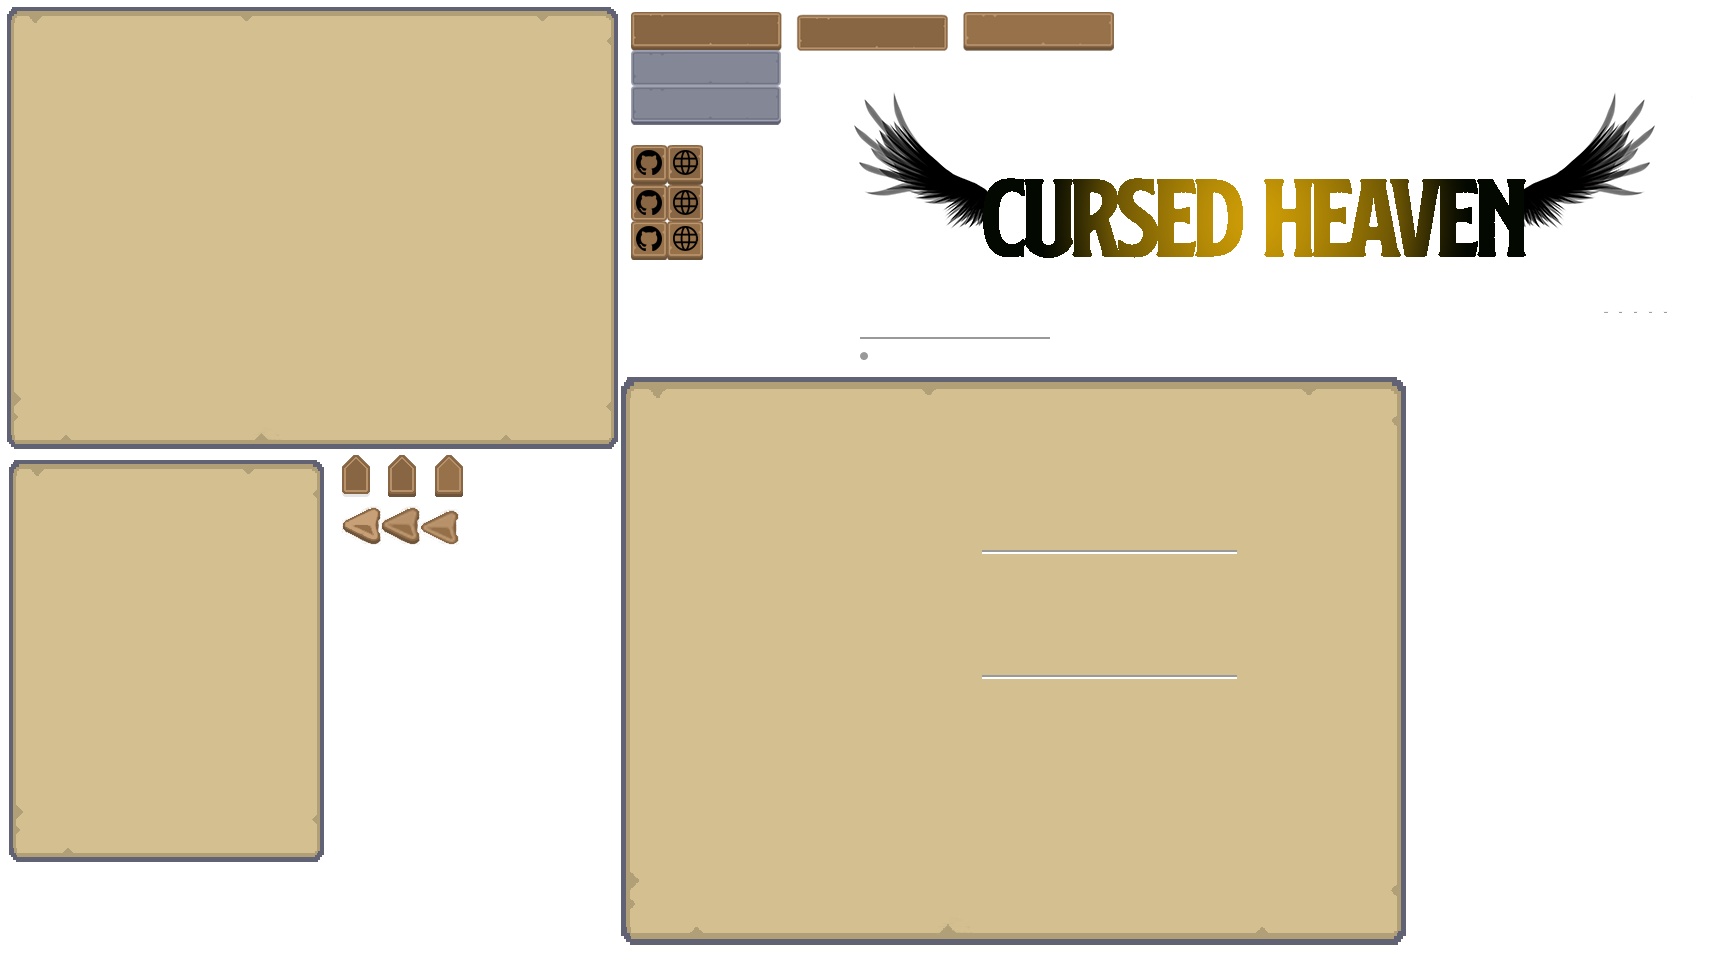
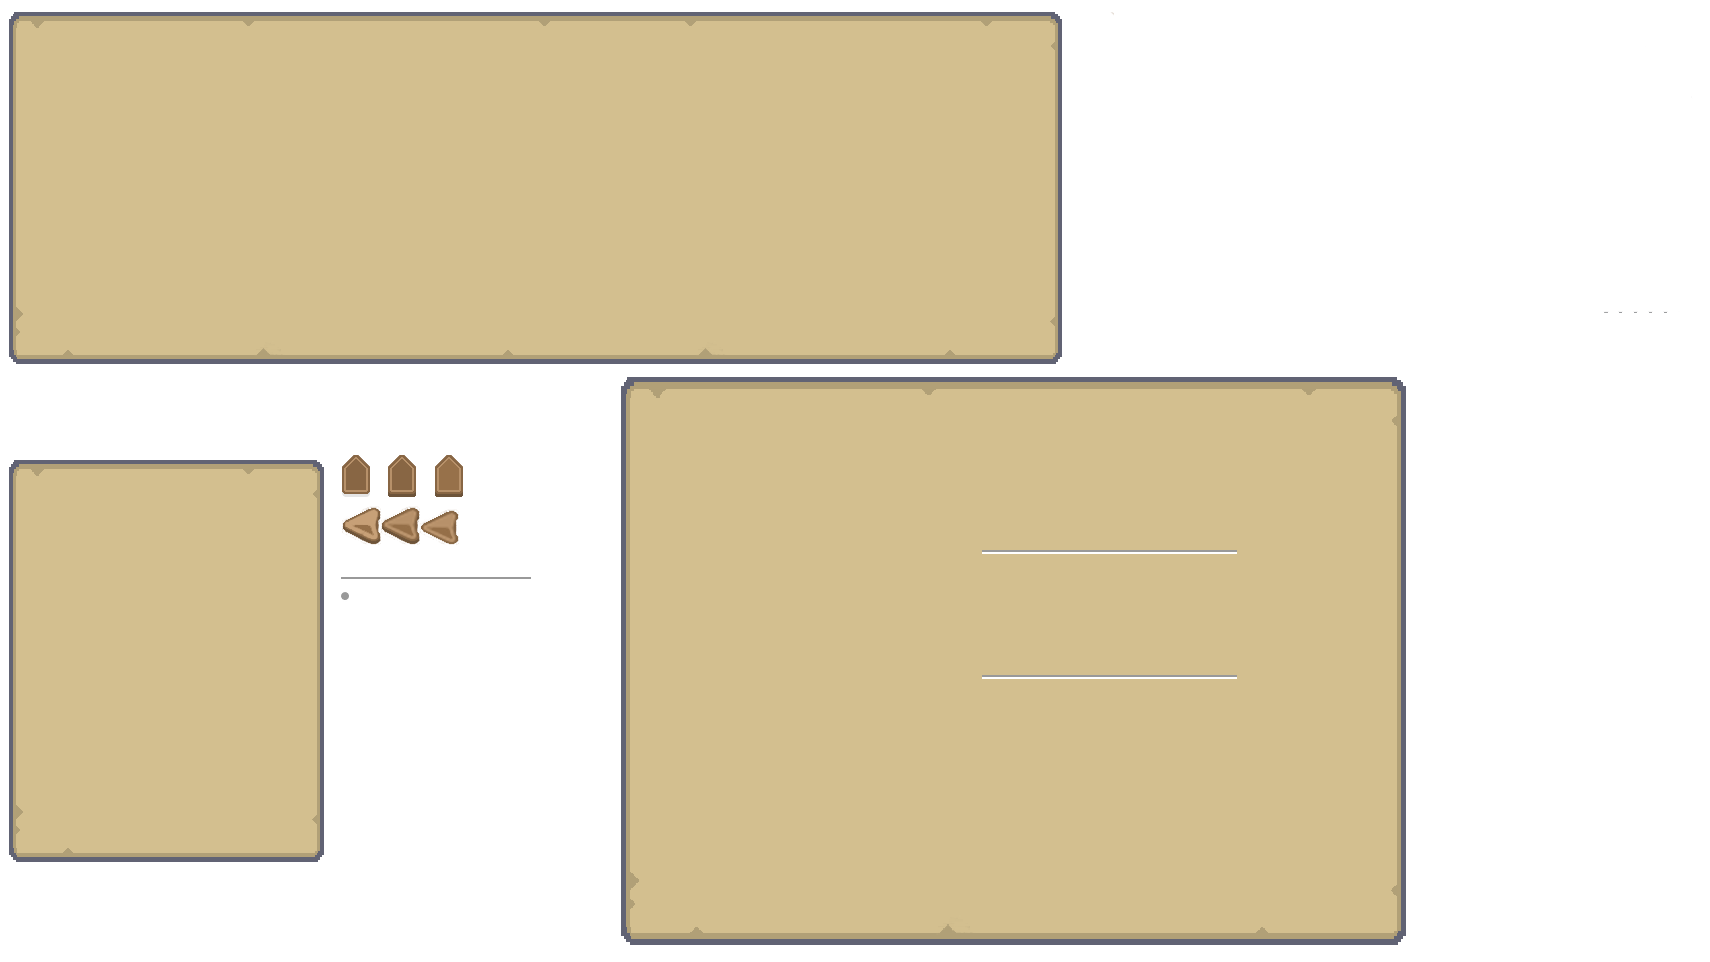
finished choose character

Changed region(s): [[0.0, 0.0, 0.9608, 0.4678]]

diff --git a/CursedHeaven/Motor2D/j1ChooseCharacter.cpp b/CursedHeaven/Motor2D/j1ChooseCharacter.cpp
@@ -55,38 +55,39 @@ bool j1ChooseCharacter::Awake(pugi::xml_node& config) {
 bool j1ChooseCharacter::Start() {
 
 	if (active) {
-
 		// The map is loaded
 		App->map->Load("menu.tmx");
 
 		// Loading textures
 		button_tex = App->tex->Load("gui/CHARACTERS_LOCKED.png");
 		gui_tex2 = App->tex->Load("gui/uipack_rpg_sheet.png");
+		info_tex = App->tex->Load("gui/uipack_rpg_sheet_2.png");
 
 		// Loading fonts
-		font = App->font->Load("fonts/Pixeled.ttf", 10);
+		font = App->font->Load("fonts/Pixeled.ttf", 5);
+		font2 = App->font->Load("fonts/Pixeled.ttf", 10);
 
 		SDL_Rect invisible = { 0,0, SCREEN_WIDTH, SCREEN_HEIGHT };
 		App->gui->CreateButton(&chooseCharacterButtons, BUTTON, 2, 40, invisible, invisible, invisible, NULL, NONE_BUT);
+		
+		SDL_Rect name_box = { 9, 12, 1053, 352 };
+		info_window = App->gui->CreateBox(&chooseCharacterBoxes, BOX, 22, 150, name_box, info_tex);
 
-		SDL_Rect name_box = { 1422, 379, 315, 123 };
-		App->gui->CreateBox(&chooseCharacterBoxes, BOX, 60, 55, name_box, gui_tex2);
+		SDL_Rect BG_idle = { 0,0,163,310 };
+		SDL_Rect BG_hover = { 327,0,164,310 };
+		App->gui->CreateButton(&chooseCharacterButtons, BUTTON, 2 + 12, 40 - 20, BG_idle, BG_hover, BG_hover, button_tex, BLACKMAGE_BUT);
 
-		SDL_Rect BG_idle = { 0,0,163,346 };
-		SDL_Rect BG_hover = { 327,0,164,346 };
-		App->gui->CreateButton(&chooseCharacterButtons, BUTTON, 2, 40, BG_idle, BG_hover, BG_hover, button_tex, BLACKMAGE_BUT);
+		SDL_Rect DK_idle = { 0,346,163,310 };
+		SDL_Rect DK_hover = { 327,346,164,310 };
+		App->gui->CreateButton(&chooseCharacterButtons, BUTTON, 87 + 12, 40 - 20, DK_idle, DK_hover, DK_hover, button_tex, DRAGOONKNIGHT_BUT);
 
-		SDL_Rect DK_idle = { 0,346,163,346 };
-		SDL_Rect DK_hover = { 327,346,164,346 };
-		App->gui->CreateButton(&chooseCharacterButtons, BUTTON, 87, 40, DK_idle, DK_hover, DK_hover, button_tex, DRAGOONKNIGHT_BUT);
+		SDL_Rect RG_idle = { 164,0,164,310 };
+		SDL_Rect RG_hover = { 489,0,164,310 };
+		App->gui->CreateButton(&chooseCharacterButtons, BUTTON, 172 + 12, 40 - 20, RG_idle, RG_idle, RG_idle, button_tex, ROGUE_BUT);
 
-		SDL_Rect RG_idle = { 164,0,164,346 };
-		SDL_Rect RG_hover = { 489,0,164,346 };
-		App->gui->CreateButton(&chooseCharacterButtons, BUTTON, 172, 40, RG_idle, RG_idle, RG_idle, button_tex, ROGUE_BUT);
-
-		SDL_Rect TK_idle = { 164,346,163,346 };
-		SDL_Rect TK_hover = { 489,346,163,346 };
-		App->gui->CreateButton(&chooseCharacterButtons, BUTTON, 257, 40, TK_idle, TK_idle, TK_idle, button_tex, TANK_BUT);
+		SDL_Rect TK_idle = { 164,346,163,310 };
+		SDL_Rect TK_hover = { 489,346,163,310 };
+		App->gui->CreateButton(&chooseCharacterButtons, BUTTON, 257 + 12, 40 - 20, TK_idle, TK_idle, TK_idle, button_tex, TANK_BUT);
 
 		App->menu->player_created = false;
 
@@ -107,7 +108,7 @@ bool j1ChooseCharacter::Update(float dt) {
 
 	BROFILER_CATEGORY("ChooseCharacterUpdate", Profiler::Color::LightSeaGreen)
 
-	App->gui->UpdateButtonsState(&chooseCharacterButtons, App->gui->buttonsScale);
+	App->gui->UpdateButtonsState(&chooseCharacterButtons, 0.35f);
 
 	for (std::list<j1Button*>::iterator item = chooseCharacterButtons.begin(); item != chooseCharacterButtons.end(); ++item) {
 		if ((*item)->visible) {
@@ -119,10 +120,22 @@ bool j1ChooseCharacter::Update(float dt) {
 			case HOVERED:
 				if (startup_time.Read() > 2000)
 				(*item)->situation = (*item)->hovered;
-				if ((*item)->bfunction == BLACKMAGE_BUT)
-					App->gui->CreateLabel(&chooseCharacterLabels, LABEL, 156, 220, font, "BlackMage", App->gui->beige);
-				else if ((*item)->bfunction == DRAGOONKNIGHT_BUT)
-					App->gui->CreateLabel(&chooseCharacterLabels, LABEL, 156, 220, font, "dk", App->gui->beige);
+				if ((*item)->bfunction == BLACKMAGE_BUT) {
+					App->gui->CreateLabel(&chooseCharacterLabels, LABEL, 130, 155, font2, "Black Mage", App->gui->brown);
+					App->gui->CreateLabel(&chooseCharacterLabels, LABEL, 80, 195, font, "A fast wizard that uses his powerful ranged", App->gui->beige);
+					App->gui->CreateLabel(&chooseCharacterLabels, LABEL, 96, 210, font, "attacks and deals high area damage", App->gui->beige);
+				}
+				else if ((*item)->bfunction == DRAGOONKNIGHT_BUT) {
+					App->gui->CreateLabel(&chooseCharacterLabels, LABEL, 110, 155, font2, "Dragoon Knight", App->gui->brown);
+					App->gui->CreateLabel(&chooseCharacterLabels, LABEL, 70, 195, font, "An agile warrior that moves fast acroos the map", App->gui->beige);
+					App->gui->CreateLabel(&chooseCharacterLabels, LABEL, 89, 210, font, "and deals great damage with his sword", App->gui->beige);
+				}
+				else if ((*item)->bfunction == ROGUE_BUT) {
+					App->gui->CreateLabel(&chooseCharacterLabels, LABEL, 140, 180, font2, "LOCKED", App->gui->brown);
+				}
+				else if ((*item)->bfunction == TANK_BUT) {
+					App->gui->CreateLabel(&chooseCharacterLabels, LABEL, 140, 180, font2, "LOCKED", App->gui->brown);
+				}
 				else if ((*item)->bfunction == NONE_BUT) {
 					for (std::list<j1Label*>::iterator item = chooseCharacterLabels.begin(); item != chooseCharacterLabels.end(); ++item) {
 						(*item)->CleanUp();
@@ -188,7 +201,14 @@ bool j1ChooseCharacter::Update(float dt) {
 	}
 
 	for (std::list<j1Box*>::iterator item = chooseCharacterBoxes.begin(); item != chooseCharacterBoxes.end(); ++item) {
-		(*item)->Draw(0.7f);
+		(*item)->Draw(App->gui->settingsWindowScale);
+	}
+
+	// Blitting labels of the menu
+	for (std::list<j1Label*>::iterator item = chooseCharacterLabels.begin(); item != chooseCharacterLabels.end(); ++item)
+	{
+		if ((*item)->parent != nullptr) continue;
+		if ((*item)->visible) (*item)->Draw();
 	}
 
 	return true;
@@ -211,6 +231,11 @@ bool j1ChooseCharacter::CleanUp() {
 		chooseCharacterLabels.remove(*item);
 	}
 
+	for (std::list<j1Box*>::iterator item = chooseCharacterBoxes.begin(); item != chooseCharacterBoxes.end(); ++item) {
+		(*item)->CleanUp();
+		chooseCharacterBoxes.remove(*item);
+	}
+
 	return true;
 }
 
@@ -218,6 +243,7 @@ void j1ChooseCharacter::ChangeScene() {
 	
 	this->active = false;
 	startGame = false;
+	backToMenu = false;
 
 	CleanUp();
 
@@ -229,12 +255,6 @@ void j1ChooseCharacter::ChangeScene() {
 	
 	App->entity->active = true;
 	App->entity->CreatePlayer();
-	//App->entity->CreateNPC();
 	App->entity->Start();
 }
 
-void j1ChooseCharacter::CharacterInformation()
-{
-	
-	
-}

diff --git a/CursedHeaven/Motor2D/j1ChooseCharacter.h b/CursedHeaven/Motor2D/j1ChooseCharacter.h
@@ -40,10 +40,9 @@ public:
 	// Called to change scene
 	void ChangeScene();
 
-	// Information about the character you are hovering
-	void CharacterInformation();
-
 public:
+
+	j1Box* info_window = nullptr;
 
 	std::list<j1Button*> chooseCharacterButtons;
 	std::list<j1Label*> chooseCharacterLabels;
@@ -51,13 +50,15 @@ public:
 	
 	j1Timer	startup_time;
 	bool startGame = false;
+	bool backToMenu = false;
 
 private:
 
 	_TTF_Font* font = nullptr;
-	SDL_Texture* graphics = nullptr;
+	_TTF_Font* font2 = nullptr;
 	SDL_Texture* button_tex = nullptr;
 	SDL_Texture* gui_tex2 = nullptr;
+	SDL_Texture* info_tex = nullptr;
 
 	SCENE currentScene = SCENE::CHOOSE;
 };

diff --git a/CursedHeaven/Motor2D/j1SceneMenu.cpp b/CursedHeaven/Motor2D/j1SceneMenu.cpp
@@ -172,7 +172,7 @@ bool j1SceneMenu::Update(float dt)
 	if (App->fade->IsFading() == 0) {
 		if (chooseChar) {
 			ChangeScene(CHOOSE);
-			App->choose_character->active = true;
+			//App->choose_character->active = true;
 			//player_created = false;
 		}
 		else if (openCredits)
@@ -294,12 +294,10 @@ void j1SceneMenu::ChangeScene(SCENE objectiveScene)
 			App->settings->active = true;
 			App->settings->Start();
 		}
-		else {
-			if (objectiveScene == SCENE::CHOOSE) {
+		else if (objectiveScene == SCENE::CHOOSE) {
 				App->choose_character->active = true;
 				App->choose_character->Start();
 				//App->render->camera = { 250, -1080 };
-			}
 		}
 	}
 }

diff --git a/CursedHeaven/Motor2D/j1SceneSettings.cpp b/CursedHeaven/Motor2D/j1SceneSettings.cpp
@@ -117,12 +117,15 @@ bool j1SceneSettings::Update(float dt)
 			break;
 
 		case RELEASED:
-			(*item)->situation = (*item)->idle;
-			backToMenu = true;
-			App->fade->FadeToBlack();
+			if (startup_time.Read() > 2000) {
+				(*item)->situation = (*item)->idle;
+				backToMenu = true;
+				App->fade->FadeToBlack();
+			}
 			break;
 
 		case CLICKED:
+			if (startup_time.Read() > 2000)
 			(*item)->situation = (*item)->clicked;
 			break;
 		}
